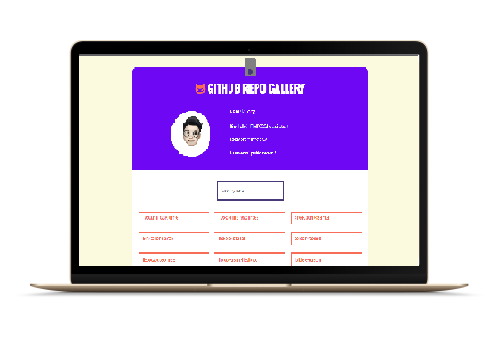
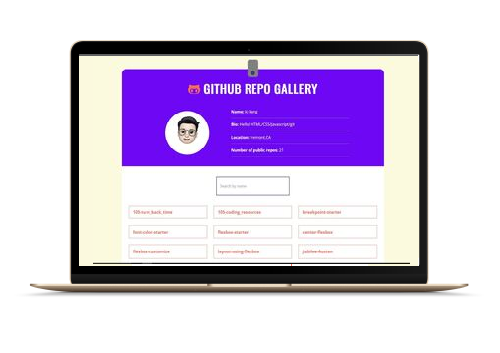
fixed

Changed region(s): [[0.18, 0.1558, 0.81, 0.7479], [0.45, 0.3116, 0.6, 0.4363]]

diff --git a/css/style.css b/css/style.css
@@ -336,7 +336,7 @@ span {
 
 
   .projects__row-img-cont{
-    width: 650px;
+    width: 65%;
     margin-left: 320px;
     
     
@@ -403,7 +403,7 @@ footer .social-icons {
    
 
 
-@media screen and (max-width: 599px) {
+@media screen and (max-width: 768px) {
     
   header .content-wrapper {
     display: grid;
@@ -522,7 +522,7 @@ footer .social-icons {
 
 
 
-@media screen and (min-width: 768px) and (max-width: 1024px) {
+@media screen and (min-width: 768px) and (max-width: 1800px) {
 
 .header-right{
   margin:auto;
@@ -533,11 +533,11 @@ footer .social-icons {
 }
 
 .skills .content-wrapper {
-  width: 100%;
+  width: 90%;
 }
 
 .container-icons  {
-  width: 65%;
+  width:
   padding-left: 5em;
 }
 
